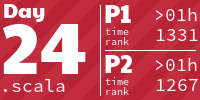
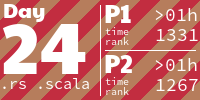
Add solution for 2022 day 24

diff --git a/src/y2022/day24.rs b/src/y2022/day24.rs
@@ -1,0 +1,222 @@
+use std::{
+    collections::{HashMap, HashSet},
+    io::BufRead,
+};
+
+use glam::IVec2;
+use num::integer::lcm;
+use pathfinding::prelude::astar;
+
+use crate::{
+    common::{
+        grid::{
+            directions::{Direction, Directions},
+            distance::ManhattenDistance,
+            minmax::minmax_ivec2,
+            parse_map,
+        },
+        parsing::lines_iter,
+    },
+    day::AoCDay,
+};
+
+#[derive(Debug)]
+enum Tile {
+    Free,
+    Wall,
+    Blizzard(Direction),
+}
+
+#[derive(Debug, Clone)]
+struct Blizzard {
+    pos: IVec2,
+    dir: Direction,
+}
+
+pub struct Solution {
+    start: IVec2,
+    end: IVec2,
+    blocked_at_times: Vec<HashSet<IVec2>>,
+}
+
+fn free_in_line(map: &HashMap<IVec2, Tile>, line: &i32) -> IVec2 {
+    map.iter()
+        .find_map(|(pos, tile)| match tile {
+            Tile::Free if &pos.y == line => Some(pos),
+            _ => None,
+        })
+        .unwrap()
+        .to_owned()
+}
+
+impl AoCDay for Solution {
+    fn title() -> &'static str {
+        "Blizzard Basin"
+    }
+
+    fn with_input(input: &mut impl BufRead) -> Self {
+        let map = parse_map(lines_iter(input), |c| match c {
+            '.' => Tile::Free,
+            '#' => Tile::Wall,
+            d @ ('^' | '>' | 'v' | '<') => Tile::Blizzard(d.into()),
+            _ => panic!("Invalid tile: {}", c),
+        });
+        let (min, max) = minmax_ivec2(map.keys());
+        let start = free_in_line(&map, &min.y);
+        let end = free_in_line(&map, &max.y);
+
+        let mut walls = map
+            .iter()
+            .filter_map(|(pos, tile)| match tile {
+                Tile::Wall => Some(pos),
+                _ => None,
+            })
+            .cloned()
+            .collect::<HashSet<_>>();
+        walls.insert(start.up());
+        walls.insert(end.down());
+
+        let blizzards = map
+            .into_iter()
+            .filter_map(|(pos, tile)| match tile {
+                Tile::Blizzard(dir) => Some(Blizzard { pos, dir }),
+                _ => None,
+            })
+            .collect::<Vec<_>>();
+
+        let blizzard_loop = lcm(max.x - 1, max.y - 1);
+        let blocked_at_times = (0..blizzard_loop)
+            .scan(blizzards, |state, _| {
+                let current = state.clone();
+                state.iter_mut().for_each(|b| match b.dir {
+                    Direction::Up => {
+                        if b.pos.y == 1 {
+                            b.pos.y = max.y - 1;
+                        } else {
+                            b.pos.y -= 1;
+                        }
+                    }
+                    Direction::Right => {
+                        if b.pos.x == max.x - 1 {
+                            b.pos.x = 1;
+                        } else {
+                            b.pos.x += 1;
+                        }
+                    }
+                    Direction::Down => {
+                        if b.pos.y == max.y - 1 {
+                            b.pos.y = 1;
+                        } else {
+                            b.pos.y += 1;
+                        }
+                    }
+                    Direction::Left => {
+                        if b.pos.x == 1 {
+                            b.pos.x = max.x - 1;
+                        } else {
+                            b.pos.x -= 1;
+                        }
+                    }
+                });
+                Some(current)
+            })
+            .map(|blizzards| {
+                let mut blizzards = blizzards.into_iter().map(|b| b.pos).collect::<HashSet<_>>();
+                blizzards.extend(&walls);
+                blizzards
+            })
+            .collect::<Vec<_>>();
+
+        Self {
+            start,
+            end,
+            blocked_at_times,
+        }
+    }
+
+    fn part1(&self) -> String {
+        let start = State::new(self.start);
+        self.find_path(&start, &self.end).0.to_string()
+    }
+
+    fn part2(&self) -> String {
+        let start = State::new(self.start);
+        let (dist1, state) = self.find_path(&start, &self.end);
+        let (dist2, state) = self.find_path(&state, &self.start);
+        let (dist3, _) = self.find_path(&state, &self.end);
+        (dist1 + dist2 + dist3).to_string()
+    }
+}
+
+impl Solution {
+    fn find_path(&self, start: &State, end: &IVec2) -> (u32, State) {
+        let res = astar(
+            start,
+            |state| state.next(&self.blocked_at_times),
+            |state| state.pos.manhattan_distance(end),
+            |state| &state.pos == end,
+        )
+        .expect("No path found");
+        (res.1, res.0.last().unwrap().clone())
+    }
+}
+
+#[derive(Debug, Clone, PartialEq, Eq, Hash)]
+struct State {
+    pos: IVec2,
+    time: usize,
+}
+
+impl State {
+    fn new(pos: IVec2) -> Self {
+        Self { pos, time: 0 }
+    }
+
+    fn next(&self, blocked_at_times: &[HashSet<IVec2>]) -> Vec<(Self, u32)> {
+        let next_time = (self.time + 1) % blocked_at_times.len();
+        let mut next = self.pos.directions();
+        next.push(self.pos);
+        next.retain(|pos| !blocked_at_times[next_time].contains(pos));
+        next.into_iter()
+            .map(|pos| {
+                (
+                    Self {
+                        pos,
+                        time: next_time,
+                    },
+                    1,
+                )
+            })
+            .collect()
+    }
+}
+
+#[cfg(test)]
+mod tests {
+    use super::*;
+    use crate::input;
+
+    #[test]
+    fn test_part1_example() {
+        let day = Solution::with_input(input!(example: 2022 24));
+        assert_eq!(day.part1(), "18");
+    }
+
+    #[test]
+    fn test_part1_input() {
+        let day = Solution::with_input(input!(input: 2022 24));
+        assert_eq!(day.part1(), "245");
+    }
+
+    #[test]
+    fn test_part2_example() {
+        let day = Solution::with_input(input!(example: 2022 24));
+        assert_eq!(day.part2(), "54");
+    }
+
+    #[test]
+    fn test_part2_input() {
+        let day = Solution::with_input(input!(input: 2022 24));
+        assert_eq!(day.part2(), "798");
+    }
+}

diff --git a/src/common/grid.rs b/src/common/grid.rs
@@ -1,4 +1,4 @@
-use std::collections::HashSet;
+use std::collections::{HashMap, HashSet};
 
 use glam::IVec2;
 
@@ -10,7 +10,7 @@ pub mod walk;
 pub fn parse_set(lines: impl Iterator<Item = String>) -> HashSet<IVec2> {
     lines
         .enumerate()
-        .flat_map(|(y, line)| {
+        .flat_map(move |(y, line)| {
             line.chars()
                 .enumerate()
                 .filter_map(move |(x, c)| match c {
@@ -18,6 +18,21 @@ pub fn parse_set(lines: impl Iterator<Item = String>) -> HashSet<IVec2> {
                     _ => None,
                 })
                 .collect::<HashSet<IVec2>>()
+        })
+        .collect()
+}
+
+pub fn parse_map<T>(
+    lines: impl Iterator<Item = String>,
+    parse_char: fn(char) -> T,
+) -> HashMap<IVec2, T> {
+    lines
+        .enumerate()
+        .flat_map(move |(y, line)| {
+            line.chars()
+                .enumerate()
+                .map(move |(x, c)| (IVec2::new(x as i32, y as i32), parse_char(c)))
+                .collect::<HashMap<IVec2, T>>()
         })
         .collect()
 }

diff --git a/src/y2016/day1.rs b/src/y2016/day1.rs
@@ -72,7 +72,7 @@ impl AoCDay for Solution {
                 )
             },
         );
-        target.manhattan_distance(IVec2::ZERO).to_string()
+        target.manhattan_distance(&IVec2::ZERO).to_string()
     }
 
     fn part2(&self) -> String {
@@ -84,7 +84,7 @@ impl AoCDay for Solution {
             direction = direction.turn(&inst.turn);
             for _ in 0..inst.distance {
                 if !visited.insert(current) {
-                    return current.manhattan_distance(IVec2::ZERO).to_string();
+                    return current.manhattan_distance(&IVec2::ZERO).to_string();
                 }
                 current = current.move_step(direction);
             }

diff --git a/src/common/grid/distance.rs b/src/common/grid/distance.rs
@@ -1,11 +1,11 @@
 use glam::IVec2;
 
 pub trait ManhattenDistance {
-    fn manhattan_distance(&self, other: Self) -> i32;
+    fn manhattan_distance(&self, other: &Self) -> u32;
 }
 
 impl ManhattenDistance for IVec2 {
-    fn manhattan_distance(&self, other: IVec2) -> i32 {
-        (self.x - other.x).abs() + (self.y - other.y).abs()
+    fn manhattan_distance(&self, other: &IVec2) -> u32 {
+        (self.x - other.x).unsigned_abs() + (self.y - other.y).unsigned_abs()
     }
 }

diff --git a/benches/solutions.rs b/benches/solutions.rs
@@ -58,5 +58,5 @@ macro_rules! benchmarks {
 benchmarks!(
     (Benchmark2016 / y2016: day1),
     (Benchmark2021 / y2021: day1),
-    (Benchmark2022 / y2022: day1, day3, day4, day6, day16, day17, day23, day25)
+    (Benchmark2022 / y2022: day1, day3, day4, day6, day16, day17, day23, day24, day25)
 );

diff --git a/src/lib.rs b/src/lib.rs
@@ -77,5 +77,5 @@ macro_rules! aoc_solutions {
 aoc_solutions!(
     (y2016: day1),
     (y2021: day1),
-    (y2022: day1, day3, day4, day6, day16, day17, day23, day25)
+    (y2022: day1, day3, day4, day6, day16, day17, day23, day24, day25)
 );

diff --git a/README.md b/README.md
@@ -74,7 +74,7 @@ Rust solutions for [Advent of Code](http://adventofcode.com/). My scala solution
 <a href="src/y2022/day23.rs">
   <img src="AoCTiles/2022/23.png" width="161px">
 </a>
-<a href="https://github.com/SuperTux88/adventofcode/blob/main/src/main/scala/adventofcode/y2022/Day24.scala">
+<a href="src/y2022/day24.rs">
   <img src="AoCTiles/2022/24.png" width="161px">
 </a>
 <a href="src/y2022/day25.rs">
